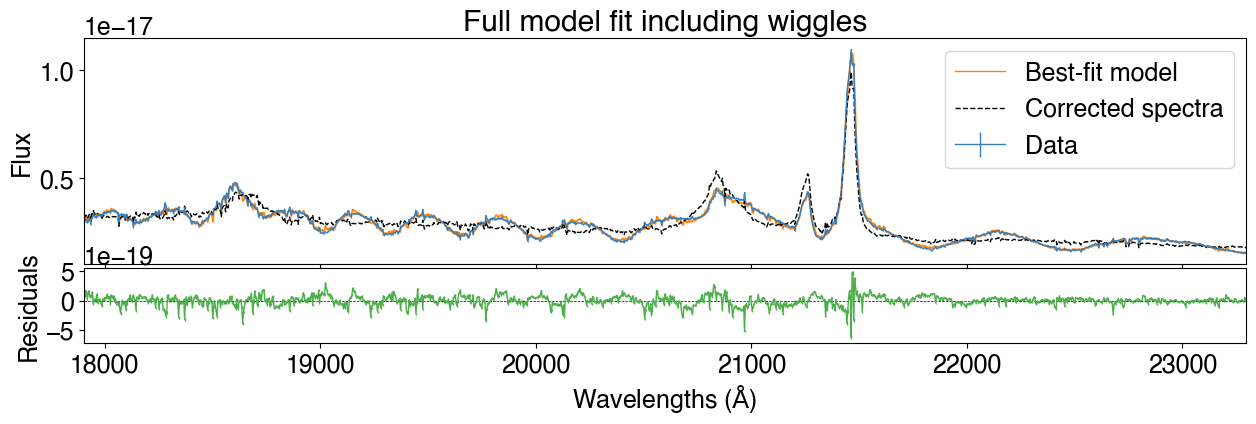
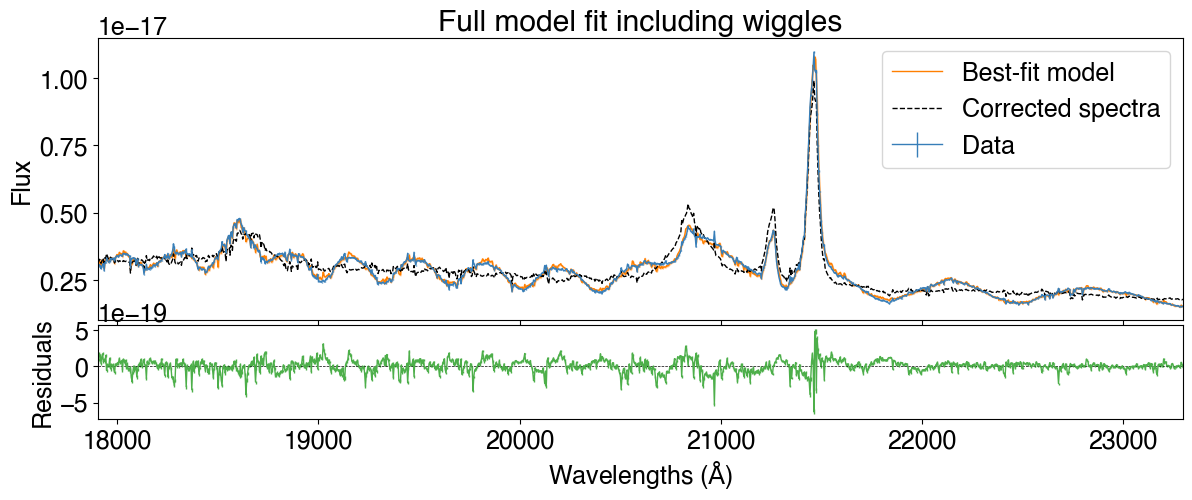
Adjust figure sizes in WiggleCleaner for improved layout

diff --git a/raccoon/wiggle_cleaner.py b/raccoon/wiggle_cleaner.py
@@ -940,7 +940,7 @@ class WiggleCleaner(object):
         :rtype: None
         """
 
-        fig = plt.figure(figsize=(15, 4))
+        fig = plt.figure(figsize=(14, 5))
         gs = GridSpec(4, 1, height_ratios=[3, 0.05, 1, 0.05], hspace=0)
         ax = fig.add_subplot(gs[0])
         ax.plot(
@@ -1129,7 +1129,7 @@ class WiggleCleaner(object):
         :return: None
         :rtype: None
         """
-        fig = plt.figure(figsize=(15, 2))
+        fig = plt.figure(figsize=(14, 2.5))
         ax = fig.add_subplot(111)
 
         ax.errorbar(

diff --git a/paper/paper.md b/paper/paper.md
@@ -35,31 +35,39 @@ The JWST NIRSpec's IFS mode [@Boker23] enables spatially resolved infrared spect
 
 # Functionality
 
-Since the wiggles in the single-spaxel spectra in the reduced JWST NIRSpec datacube are artifacts or resampling noise arising due to undersampling the PSF, dithering can, in principle, mitigate the issue of PSF undersampling and thus the wiggles. However, the commonly adopted 4-point dither pattern is still insufficient to recover the optimal sampling and completely eliminate the wiggles in the rectified datacube [@Law23]. The wiggles are washed out in the spectra summed from multiple spaxels within a sufficiently large aperture (illustrated in \autoref{wiggled-in-spectra}). This provides a basis for making an empirical correction for the wiggles by comparing the single-spaxel spectrum to the one summed within an aperture around it. This principle was also used by previous corrective algorithms, such as in @Perna23 and in the Python routine `WICKED` [@Dumont25].
+Since the wiggles in the single-spaxel spectra in the reduced JWST NIRSpec datacube are artifacts or resampling noise arising due to undersampling the PSF, dithering can, in principle, mitigate the issue of PSF undersampling and thus the wiggles. However, the commonly adopted 4-point dither pattern is still insufficient to recover the optimal sampling and completely eliminate the wiggles in the rectified datacube [@Law23]. The wiggles are washed out in the spectra summed from multiple spaxels within a sufficiently large aperture (illustrated in \autoref{fig:wiggled-in-spectra}). This provides a basis for making an empirical correction for the wiggles by comparing the single-spaxel spectrum to the one summed within an aperture around it. This principle was also used by previous corrective algorithms, such as in @Perna23 and in the Python routine `WICKED` [@Dumont25].
 
-![Illustration of the wiggles in the single-spaxel spectrum (blue), which is a manifestation of the resampling noise in the standard-pipeline-reduced datacube due to PSF undersampling. The red spectrum shows the aperture-summed spectrum within a 4-spaxel radius, normalized to match its maximum to that of the single-spaxel one. The illustrated data are of an active galactic nucleus (AGN) from @Perna23.](./single_spaxel_vs_aperture_summed.png){#wiggled-in-spectra}
+![Illustration of the wiggles in the single-spaxel spectrum (blue), which is a manifestation of the resampling noise in the standard-pipeline-reduced datacube due to PSF undersampling. The red spectrum shows the aperture-summed spectrum within a 4-spaxel radius, normalized to match its maximum to that of the single-spaxel one. The illustrated data are of an active galactic nucleus (AGN) from @Perna23.](./single_spaxel_vs_aperture_summed.png){#fig:wiggled-in-spectra}
 
 In `raccoon`, the wiggle is modeled as a sinusoidal chirp function
-$$ W(\lambda) = 1 + A(\lambda) \left[ \sin \phi(\lambda) + a_1 \sin^2 \phi (\lambda) + a_2 \sin(3\phi (\lambda)) \right], \label{wiggle} $$
+$$ 
+    W(\lambda) = 1 + A(\lambda) \left[ \sin \phi(\lambda) + a_1 \sin^2 \phi (\lambda) + a_2 \sin(3\phi (\lambda)) \right], \label{eq:wiggle} 
+$$
 where $A(\lambda)$ is the wavelength-dependent amplitude and $\phi (\lambda) = \lambda\,k(\lambda) + \phi_0$ is the phase that depends on a wavelength-dependent wavenumber $k(\lambda)$. The wiggle's peaks and troughs can be asymmetrically and symmetrically sharpened (or de-sharpened) by varying the $a_1$ and $a_2$ parameters, respectively.
 
 Given this parametrization for the wiggle, a single-spaxel spectrum $D(\lambda)$ is modeled with
-$$ M (\lambda) = W(\lambda) \, T(\lambda), \label{model} $$
+$$ 
+    M (\lambda) = W(\lambda) \, T(\lambda), \label{eq:model} 
+$$
 where $T(\lambda)$ is a template for the correct spectrum devoid of the wiggles. In `raccoon`, this template is constructed based on the circular-aperture-summed spectrum $C(\lambda)$. The template can also optionally include a spectrum $S(\lambda)$ summed from a shell or annulus centered on the corresponding spaxel, following @Dumont25. Including the shell-summed spectrum in the template can account for changes in the line shape between the single-spaxel spectrum and the aperture-summed one, for example, in the case of lines broadened by stellar kinematics that can vary across the galaxy [@Dumont25]. The aperture radius and the inner and outer radii of the shell are to be adjusted by the user, as the appropriate values can depend on the source morphology and the astronomical scene. The template is constructed as
-[$$ T(\lambda) = c_1\,C(\lambda) + c_2 \, S(\lambda) + c_3 \,\lambda^b + \sum_{n=0}^N p_n\, \lambda^n ,   $$]{label="template"}
+$$ 
+    T(\lambda) = c_1\,C(\lambda) + c_2 \, S(\lambda) + c_3 \,\lambda^b + \sum_{n=0}^N p_n\, \lambda^n ,  \label{eq:template} 
+$$
 where $c_1,c_2, c_3, p_0, \dots, p_N$ are linear coefficients. Here, the power-law plus polynomial term (i.e., $c_3 \,\lambda^b + \sum_{n=0}^N p_n\, \lambda^n$) on the right-hand side models the difference in the continuum between the single-spaxel spectrum and $c_1\,C(\lambda) + c_2 \, S(\lambda)$.
 
 The functions $A(\lambda)$ and $k(\lambda)$ are modeled with B-splines, with the number of knots adjustable by the user. `raccoon` provides functionality for the user to determine the appropriate number of knots using model selection criteria such as the Bayesian information criterion (BIC) or the minimum *a posteriori* chi-squared metric ($\chi^2_{\rm MAP}$). The best-fit values for the linear coefficients (i.e., $c_1, c_2, c_3, p_0, \dots, p_N$) and non-linear parameters (i.e., $a_1$, $a_2$, $b$ and the coefficients of the B-spline basis functions) are determined by minimizing the chi-squared quantity
-$$ \chi^2 = \sum_{i} \frac{(D_i - M_i)^2}{\sigma_i^2}, \label{chisquare} $$
-where the index $i$ runs across the wavelength pixels and $\sigma_{i}$ is the associated noise level. \autoref{full-fit-example} illustrates an example of the fitted model to a given spectrum (of an AGN). In this example, `raccoon`'s robust performance is demonstrated in fitting the given spectrum while modeling the wiggle signal (\autoref{wiggle-model-example}). The user can mask out regions of the spectrum that have strong features potentially impacting the quality of the fit, or optionally adopt outlier rejection in the fit using the false discovery rate method [@Benjamini95] or sigma-clipping.
+$$ 
+    \chi^2 = \sum_{i} \frac{(D_i - M_i)^2}{\sigma_i^2}, \label{eq:chisquare} 
+$$
+where the index $i$ runs across the wavelength pixels and $\sigma_{i}$ is the associated noise level. \autoref{fig:full-fit-example} illustrates an example of the fitted model to a given spectrum (of an AGN). In this example, `raccoon`'s robust performance is demonstrated in fitting the given spectrum while modeling the wiggle signal (\autoref{fig:wiggle-model-example}). The user can mask out regions of the spectrum that have strong features potentially impacting the quality of the fit, or optionally adopt outlier rejection in the fit using the false discovery rate method [@Benjamini95] or sigma-clipping.
 
-![Modeling of the full spectrum (blue in the top panel) based on the template spectra and the wiggles impacting it. The illustrated spectrum is the same one from \autoref{wiggled-in-spectra}. The best-fit model is shown in orange and the wiggle-corrected spectrum is shown in black. The bottom panel illustrates the residuals (green) between the original data and the best-fit model.](wiggle_full_fit_16_16.png){#full-fit-example}
+![Modeling of the full spectrum (blue in the top panel) based on the template spectra and the wiggles impacting it. The illustrated spectrum is the same one from \autoref{fig:wiggled-in-spectra}. The best-fit model is shown in orange and the wiggle-corrected spectrum is shown in black. The bottom panel illustrates the residuals (green) between the original data and the best-fit model.](wiggle_full_fit_16_16.png){#fig:full-fit-example}
 
-![Illustration of the extracted and modeled wiggle signal. The illustrated data points represent $D(\lambda)/M(\lambda)$ based on the best-fit $M(\lambda)$, and the orange line illustrates the best-fit wiggle model $W(\lambda)$. The grey points are rejected outliers using the false discovery rate method, and the blue points mark the wavelengths where the data were fit to the model.](wiggle_model_16_16.png){#wiggle-model-example}
+![Illustration of the extracted and modeled wiggle signal. The illustrated data points represent $D(\lambda)/M(\lambda)$ based on the best-fit $M(\lambda)$, and the orange line illustrates the best-fit wiggle model $W(\lambda)$. The grey points are rejected outliers using the false discovery rate method, and the blue points mark the wavelengths where the data were fit to the model.](wiggle_model_16_16.png){#fig:wiggle-model-example}
 
 `raccoon` enables users to efficiently process multiple spaxels in a datacube, either across the entire field or within a specified spatial region. A user-defined detection threshold for the wiggle signal can be set, ensuring that corrections are only applied to spectra where significant wiggles are present.
 
-`raccoon` offers several advantages over previously available scripts and routines. Earlier tools [@Perna23; @Dumont25] extract the wiggle signal by subtracting the single-spaxel spectrum from a template spectrum (similar to or the same as that in Eq. \ref{template}) fitted to the data without accounting for wiggles. This approach can result in the loss of a fraction of the wiggle signal during numerical fitting. In contrast, `raccoon` fits the template spectrum and the parametric wiggle model $W(\lambda)$ simultaneously to the data, eliminating the need for an intermediate extraction step and preserving the full wiggle signal. While previous scripts perform fitting separately in multiple wavelength slices, `raccoon` fits across the entire wavelength range at once. This makes `raccoon` more robust to gaps in the fitted spectrum, whether excluded by manual masking or outlier rejection. Another important distinction is that earlier tools apply an additive correction, whereas `raccoon` uses a multiplicative correction. Since both approaches derive the correction empirically from the data, this difference should not affect performance in practice. However, as the wiggles manifest as a multiplicative effect on the spectra [@Law23], `raccoon`'s implementation is physically motivated. Additionally, `raccoon` is uniquely installable via the `pip` command, allowing more flexible import into Python scripts or notebooks and making it more user-friendly and portable than its peers.
+`raccoon` offers several advantages over previously available scripts and routines. Earlier tools [@Perna23; @Dumont25] extract the wiggle signal by subtracting the single-spaxel spectrum from a template spectrum (similar to or the same as that in Eq. \ref{eq:template}) fitted to the data without accounting for wiggles. This approach can result in the loss of a fraction of the wiggle signal during numerical fitting. In contrast, `raccoon` fits the template spectrum and the parametric wiggle model $W(\lambda)$ simultaneously to the data, eliminating the need for an intermediate extraction step and preserving the full wiggle signal. While previous scripts perform fitting separately in multiple wavelength slices, `raccoon` fits across the entire wavelength range at once. This makes `raccoon` more robust to gaps in the fitted spectrum, whether excluded by manual masking or outlier rejection. Another important distinction is that earlier tools apply an additive correction, whereas `raccoon` uses a multiplicative correction. Since both approaches derive the correction empirically from the data, this difference should not affect performance in practice. However, as the wiggles manifest as a multiplicative effect on the spectra [@Law23], `raccoon`'s implementation is physically motivated. Additionally, `raccoon` is uniquely installable via the `pip` command, allowing more flexible import into Python scripts or notebooks and making it more user-friendly and portable than its peers.
 
 # Acknowledgements
 
